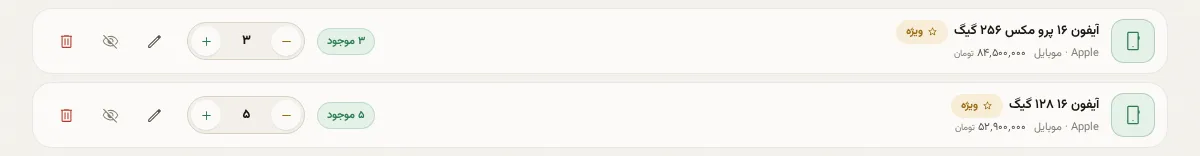
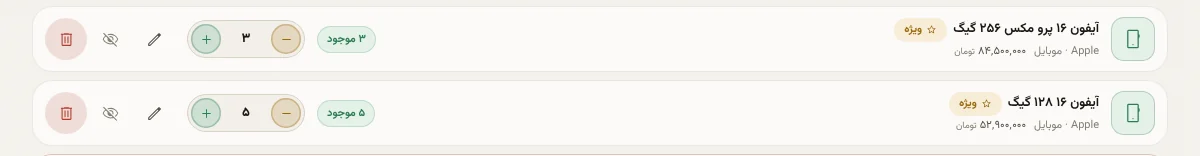
رنگها این بار روی خودِ آیکونها دیده میشوند
- نشان موجودی بهجای نقطهٔ رنگی، آیکون دارد: ✓ سبز برای موجود، ! زرد برای کمموجود، ✕ قرمز برای ناموجود
- «ناموجود» از خاکستری به قرمز تغییر کرد تا سه وضعیت از دور هم تفکیک شوند
- دکمههای − و + در پنل دایرههای پُررنگ سبز/زرد شدند (قبلاً دایرهٔ سفید با آیکون کمرنگ)
- آیکون هر کالا، هر دسته و کارتهای «پیشنهاد این هفته» چیپ رنگی ملایم گرفتند؛
  pickTone() از قبل data-tone را میگذاشت ولی هیچ CSSای آن را نمیخواند
- چیپ آیکون کارت «آخرین بهروزرسانی» و عدد «موجود در انبار» سبز شدند
- رنگهای جدید در هر سه بلوک توکن (روشن، تاریک، @media) تعریف شدهاند
- sw.js به v1.8.0 رفت تا نسخهٔ کششدهٔ قدیمی جا نماند
- سه تصویر راهنما (۰۴، ۲۱، ۲۳) با ظاهر تازه بازسازی شد
- آزمون تازه: رنگها باید روی آیکونها باشند (۵۸ آزمون)

diff --git a/assets/css/app.css b/assets/css/app.css
@@ -206,9 +206,9 @@ body { padding-bottom: 0; }
   width: 38px; height: 38px;
   display: grid; place-items: center;
   border-radius: 12px;
-  background: var(--surface-2);
-  border: 1px solid var(--hairline);
-  color: var(--text-2);
+  background: var(--ok-container);
+  border: 1px solid color-mix(in srgb, var(--ok) 24%, transparent);
+  color: var(--ok);
   flex: none;
 }
 .update-card__label { font-size: var(--fs-xs); font-weight: 650; color: var(--text); line-height: 1.4; }
@@ -229,6 +229,7 @@ body { padding-bottom: 0; }
 .stat + .stat { border-inline-start: 1px solid var(--hairline); }
 .stat__value { font-size: 1.375rem; font-weight: 750; line-height: 1.2; letter-spacing: -0.02em; font-variant-numeric: tabular-nums; }
 .stat__label { font-size: 10px; color: var(--text-3); }
+.update-card__stats .stat:nth-child(2) .stat__value { color: var(--ok); }
 .update-card__foot { display: flex; align-items: center; gap: 8px; margin-top: -4px; }
 .update-card__foot .btn { margin-inline-start: auto; }
 
@@ -524,6 +525,34 @@ body { padding-bottom: 0; }
 .device__thumb .ic { width: 26px; height: 26px; }
 .device__thumb img { width: 100%; height: 100%; object-fit: cover; }
 
+/* Visible colour for list icons: a tinted chip per device/category.
+   pickTone() already stamped data-tone="1…5" but nothing used it. */
+.device__thumb[data-tone],
+.group__icon[data-tone],
+.feature-card__media[data-tone] {
+  color: var(--tone);
+  background:
+    radial-gradient(120% 120% at 20% 0%, color-mix(in srgb, var(--tone) 16%, transparent), transparent 65%),
+    var(--tone-bg);
+  border-color: color-mix(in srgb, var(--tone) 26%, transparent);
+}
+.device__thumb[data-tone="1"], .group__icon[data-tone="1"], .feature-card__media[data-tone="1"] { --tone: var(--tone-1); --tone-bg: var(--tone-1-container); }
+.device__thumb[data-tone="2"], .group__icon[data-tone="2"], .feature-card__media[data-tone="2"] { --tone: var(--tone-2); --tone-bg: var(--tone-2-container); }
+.device__thumb[data-tone="3"], .group__icon[data-tone="3"], .feature-card__media[data-tone="3"] { --tone: var(--tone-3); --tone-bg: var(--tone-3-container); }
+.device__thumb[data-tone="4"], .group__icon[data-tone="4"], .feature-card__media[data-tone="4"] { --tone: var(--tone-4); --tone-bg: var(--tone-4-container); }
+.device__thumb[data-tone="5"], .group__icon[data-tone="5"], .feature-card__media[data-tone="5"] { --tone: var(--tone-5); --tone-bg: var(--tone-5-container); }
+.device--oos .device__thumb[data-tone] { filter: saturate(0.35); }
+
+/* Large surfaces stay calmer than 54 px chips: the featured rail is a big
+   block of colour, so it gets a lighter blend of the same tone. */
+.feature-card__media[data-tone] > .ic { color: var(--tone); }
+.feature-card__media[data-tone] {
+  background:
+    radial-gradient(120% 120% at 50% 0%, color-mix(in srgb, var(--tone) 12%, transparent), transparent 70%),
+    color-mix(in srgb, var(--tone-bg) 42%, var(--surface));
+  border-color: color-mix(in srgb, var(--tone) 18%, transparent);
+}
+
 .device__main { display: flex; flex-direction: column; gap: 5px; min-width: 0; }
 .device__titleline { display: flex; align-items: center; gap: 8px; flex-wrap: wrap; }
 .device__name {
@@ -593,10 +622,20 @@ body { padding-bottom: 0; }
   background: var(--surface-2);
   color: var(--text-2);
 }
+.stock-badge {
+  gap: 4px;
+  height: 23px;
+  padding-inline: 7px 9px;
+  font-weight: 700;
+  letter-spacing: -0.01em;
+  box-shadow: inset 0 0 0 1px color-mix(in srgb, currentColor 16%, transparent);
+}
 .stock-badge__dot { width: 5px; height: 5px; border-radius: 99px; background: currentColor; }
+.stock-badge__ic { display: inline-flex; }
+.stock-badge__ic .ic { width: 13px; height: 13px; }
 .stock-badge[data-state="in"] { background: var(--ok-container); color: var(--ok); }
 .stock-badge[data-state="low"] { background: var(--low-container); color: var(--low); }
-.stock-badge[data-state="out"] { background: var(--surface-3); color: var(--out); }
+.stock-badge[data-state="out"] { background: var(--danger-container); color: var(--danger); }
 .device__admin {
   display: flex;
   align-items: center;
@@ -1617,6 +1656,9 @@ body.is-manage-page .skip { display: none !important; }
   color: var(--text-3);
   line-height: 1.5;
 }
+.mp-stat--ok .mp-stat__icon,
+.mp-stat--danger .mp-stat__icon,
+.mp-stat--low .mp-stat__icon { box-shadow: inset 0 0 0 1px color-mix(in srgb, currentColor 16%, transparent); }
 .mp-stat--ok .mp-stat__icon { background: var(--ok-container); color: var(--ok); }
 .mp-stat--ok b { color: var(--ok); }
 .mp-stat--danger .mp-stat__icon { background: var(--danger-container); color: var(--danger); }
@@ -1767,8 +1809,8 @@ body.is-manage-page .skip { display: none !important; }
 .mp-row__hide { color: var(--text-3); }
 .mp-row__hide:hover { color: var(--low); background: var(--low-container); }
 .mp-row__hidden-on { color: var(--low); background: var(--low-container); }
-.mp-row__danger { color: var(--danger); }
-.mp-row__danger:hover { color: var(--danger); background: var(--danger-container); }
+.mp-row__danger { color: var(--danger); background: color-mix(in srgb, var(--danger) 15%, var(--surface)); }
+.mp-row__danger:hover { color: var(--danger); background: color-mix(in srgb, var(--danger) 24%, var(--surface)); }
 
 .mp-badge {
   display: inline-flex;
@@ -1812,10 +1854,22 @@ body.is-manage-page .skip { display: none !important; }
   box-shadow: var(--shadow-1);
   transition: background-color var(--dur-1), transform var(--dur-2) var(--ease-spring);
 }
-.mp-stepper__btn--inc { color: var(--ok); }
-.mp-stepper__btn--inc:hover { background: var(--ok-container); }
-.mp-stepper__btn--dec { color: var(--low); }
-.mp-stepper__btn--dec:hover { background: var(--low-container); }
+/* Filled, clearly-coloured circles — a tinted glyph on white was too quiet
+   to read as "green / amber" at 30 px. */
+.mp-stepper__btn--inc {
+  color: var(--ok);
+  background: color-mix(in srgb, var(--ok) 22%, var(--surface));
+  box-shadow: inset 0 0 0 1.5px color-mix(in srgb, var(--ok) 32%, transparent);
+}
+.mp-stepper__btn--inc:hover { background: color-mix(in srgb, var(--ok) 30%, var(--surface)); }
+.mp-stepper__btn--inc:active { background: color-mix(in srgb, var(--ok) 38%, var(--surface)); }
+.mp-stepper__btn--dec {
+  color: var(--low);
+  background: color-mix(in srgb, var(--low) 24%, var(--surface));
+  box-shadow: inset 0 0 0 1.5px color-mix(in srgb, var(--low) 34%, transparent);
+}
+.mp-stepper__btn--dec:hover { background: color-mix(in srgb, var(--low) 32%, var(--surface)); }
+.mp-stepper__btn--dec:active { background: color-mix(in srgb, var(--low) 40%, var(--surface)); }
 .mp-stepper__btn:active { transform: scale(0.92); }
 .mp-stepper__input {
   width: 46px;

diff --git a/assets/js/render.js b/assets/js/render.js
@@ -240,7 +240,7 @@ function featureCardHtml(device) {
   return `
     <button class="feature-card reveal is-in" type="button" role="listitem" data-action="detail" data-device-id="${escapeHtml(device.id)}"
             aria-label="جزئیات ${escapeHtml(device.name)}">
-      <div class="feature-card__media">
+      <div class="feature-card__media" data-tone="${pickTone(device.name + device.brand)}">
         ${device.image ? `<img class="thumb-img" src="${escapeHtml(safeUrl(device.image))}" alt="" loading="lazy" decoding="async">` : icon(cat?.icon || 'devices_other', { size: 54 })}
         <span class="feature-card__tag badge badge--inverse">${icon('star', { size: 12 })} ویژه</span>
       </div>
@@ -475,7 +475,7 @@ function groupHtml(cat, items) {
   return `
     <section class="group group--${state.ui.view === 'grid' ? 'grid' : 'list'}" data-group="${escapeHtml(catId)}" aria-label="${escapeHtml(title)}">
       <div class="group__head">
-        <span class="group__icon">${icon(iconName, { size: 19 })}</span>
+        <span class="group__icon" data-tone="${pickTone(title)}">${icon(iconName, { size: 19 })}</span>
         <div class="group__titles">
           <h3 class="group__title">${escapeHtml(title)}</h3>
           <span class="group__meta" data-group-meta="${escapeHtml(catId)}">${metaBits.join(' · ')}</span>
@@ -603,8 +603,10 @@ export function stockBadgeHtml(device) {
       ? `${num(device.stock)} عدد`
       : (stateKey === 'low' ? 'کمیاب' : 'موجود');
   const title = stateKey === 'out' ? 'موجود نیست' : `موجودی: ${num(device.stock)} عدد`;
+  /* A coloured icon, not just a tinted word: ✓ green / ! amber / ✕ red. */
+  const stateIcon = stateKey === 'out' ? 'cancel' : stateKey === 'low' ? 'warning' : 'check_circle';
   return `<span class="stock-badge" data-stock-badge="${escapeHtml(device.id)}" data-state="${stateKey}" title="${escapeHtml(title)}">
-    <span class="stock-badge__dot" aria-hidden="true"></span>${label}
+    <span class="stock-badge__ic" aria-hidden="true">${icon(stateIcon, { size: 13 })}</span>${label}
   </span>`;
 }
 

diff --git a/assets/css/tokens.css b/assets/css/tokens.css
@@ -44,7 +44,8 @@
   --on-primary-container: #1d1c18;
   --primary-soft: rgba(29, 28, 24, 0.06);
 
-  /* Semantic accents — muted so the whole page stays monochrome */
+  /* Semantic accents — green / amber / red, kept muted so they read as
+     signals rather than decoration */
   --ok: #2f7d52;
   --ok-container: #e3f1e8;
   --on-ok: #ffffff;
@@ -54,6 +55,19 @@
   --danger: #b33a2d;
   --danger-container: #f9e5e1;
   --on-danger: #ffffff;
+
+  /* Decorative tones — low-saturation chips so lists read at a glance
+     without turning into a rainbow */
+  --tone-1: #3d6ea8;
+  --tone-1-container: #e6eefa;
+  --tone-2: #77569f;
+  --tone-2-container: #efe8f9;
+  --tone-3: #2b7a72;
+  --tone-3-container: #e0f1ee;
+  --tone-4: #a4506f;
+  --tone-4-container: #fae7ee;
+  --tone-5: #9a6320;
+  --tone-5-container: #f8eddc;
 
   /* Elevated surfaces */
   --shadow-1: 0 1px 2px rgba(38, 32, 22, 0.05), 0 1px 1px rgba(38, 32, 22, 0.03);
@@ -155,6 +169,17 @@
   --danger-container: #331b19;
   --on-danger: #2a1412;
 
+  --tone-1: #93b8e6;
+  --tone-1-container: #1a2635;
+  --tone-2: #bda4e4;
+  --tone-2-container: #241f36;
+  --tone-3: #7fc9c0;
+  --tone-3-container: #132a27;
+  --tone-4: #e4a2bd;
+  --tone-4-container: #301f27;
+  --tone-5: #e3b583;
+  --tone-5-container: #2c2417;
+
   --shadow-1: 0 1px 2px rgba(0, 0, 0, 0.4);
   --shadow-2: 0 1px 2px rgba(0, 0, 0, 0.4), 0 12px 28px -16px rgba(0, 0, 0, 0.7);
   --shadow-3: 0 2px 6px rgba(0, 0, 0, 0.45), 0 30px 70px -28px rgba(0, 0, 0, 0.85);
@@ -200,6 +225,17 @@
     --danger: #f0968d;
     --danger-container: #331b19;
     --on-danger: #2a1412;
+
+    --tone-1: #93b8e6;
+    --tone-1-container: #1a2635;
+    --tone-2: #bda4e4;
+    --tone-2-container: #241f36;
+    --tone-3: #7fc9c0;
+    --tone-3-container: #132a27;
+    --tone-4: #e4a2bd;
+    --tone-4-container: #301f27;
+    --tone-5: #e3b583;
+    --tone-5-container: #2c2417;
 
     --shadow-1: 0 1px 2px rgba(0, 0, 0, 0.4);
     --shadow-2: 0 1px 2px rgba(0, 0, 0, 0.4), 0 12px 28px -16px rgba(0, 0, 0, 0.7);

diff --git a/sw.js b/sw.js
@@ -1,5 +1,5 @@
 /* Online List — offline shell + fresh data */
-const VERSION = 'v1.7.0';
+const VERSION = 'v1.8.0';
 const CACHE = `online-list-${VERSION}`;
 const ASSETS = [
   './',

diff --git a/README.md b/README.md
@@ -158,7 +158,7 @@ GH_TOKEN=github_pat_xxx OL_PASSWORD='یک-عبارت-طولانی' node tools/ma
 - **دستهبندی و قالب مشخصات**: هر دسته یک قالب مشخصات دارد (مثلاً «حافظه»، «رم»، «رنگ» برای موبایل و «پردازنده»، «گرافیک» برای لپتاپ) و برای شروع، قالبهای آماده برای موبایل/لپتاپ/تبلت/کنسول/ساعت/لوازم جانبی هست. برای یک کالای خاص میتوانید «مشخصات اضافه» هم بنویسید.
 - **انتشار**: تغییرات را با یک پیام کامیت روی مخزن بنویسید. تاریخچه در `meta.history` ثبت میشود و «آخرین بهروزرسانی مدیر» در صفحه اصلی از همان خوانده میشود.
 - **قفل**: توکن از حافظه پاک میشود. هر بار ورود، توکن تازه از `vault.json` رمزگشایی میشود.
-- **رنگهای تأکیدی**: فقط چند نشانهٔ کوچک — سبز برای افزودن/موجود و «تأیید و انتشار»، زرد برای کمموجود و در انتظار تأیید، قرمز برای ناموجود و حذف/بازنشانی. بقیهٔ رابط همان سیاه و سفید است.
+- **رنگهای تأکیدی**: سبز برای موجود/افزودن/«تأیید و انتشار»، زرد برای کمموجود و در انتظار تأیید، قرمز برای ناموجود و حذف. این رنگها فقط لبهٔ متن نیستند: نشان موجودی آیکون ✓/!/✕ دارد، دکمههای − و + دایرههای پررنگاند و آیکون هر کالا/دسته یک چیپ رنگی ملایم میگیرد. بقیهٔ رابط همان کرم/سیاه آرام است.
 
 میانبر: `Ctrl/⌘ + S` برای انتشار، `/` برای جستجو.
 
